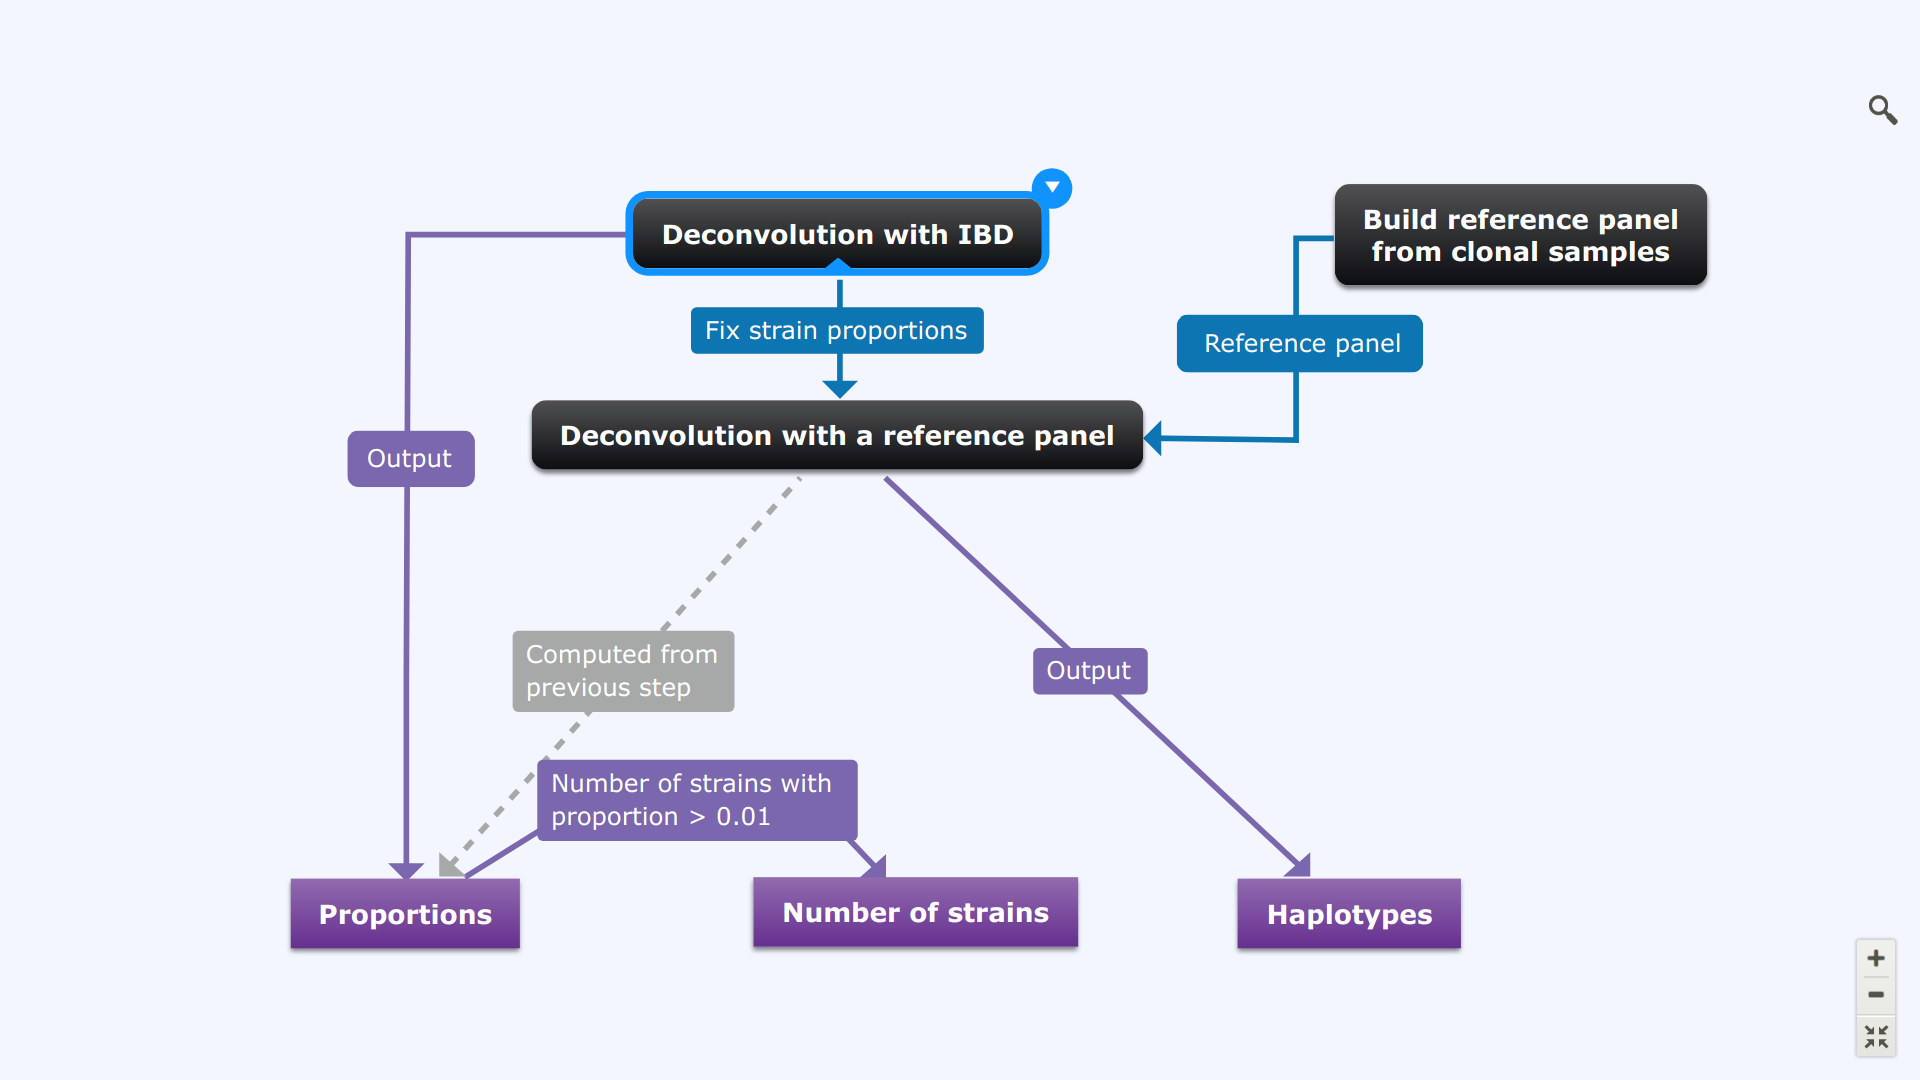
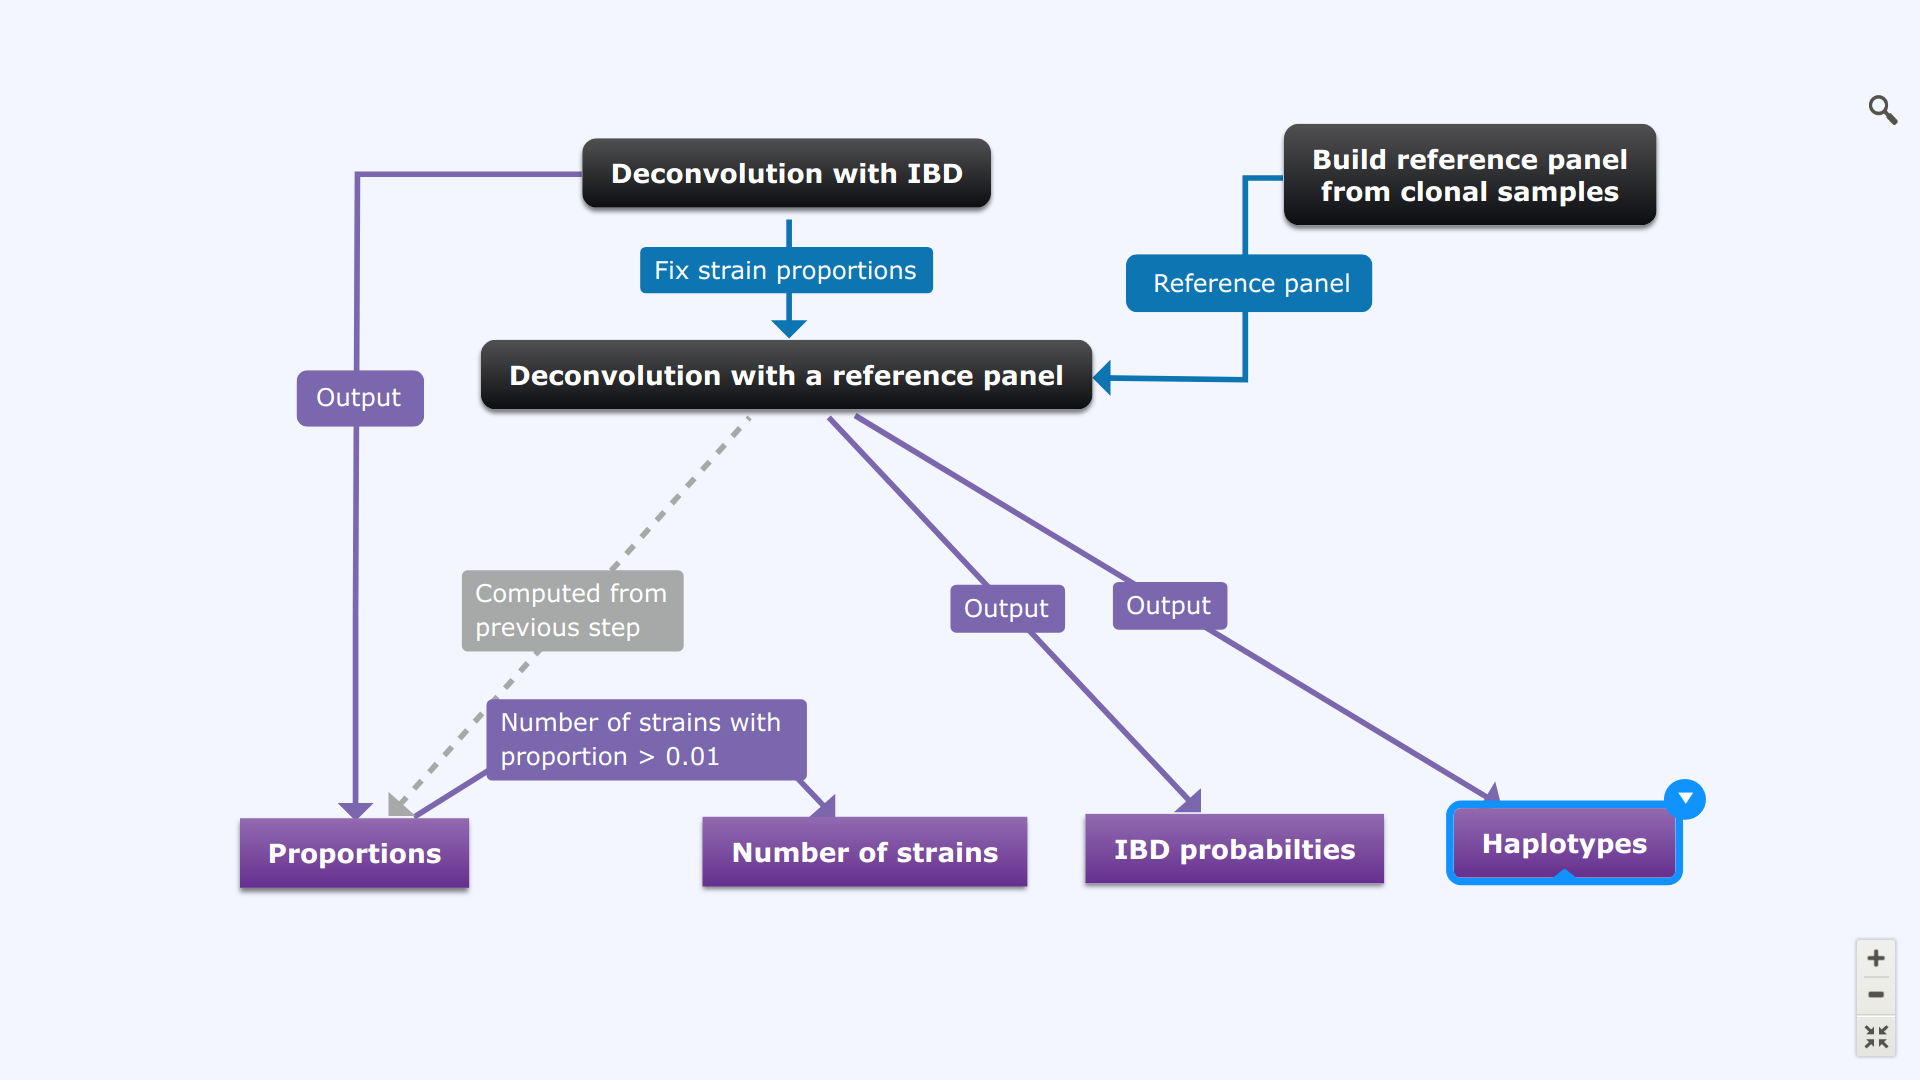
update

diff --git a/main.tex b/main.tex
@@ -42,11 +42,18 @@ The extent to which individuals infected with malaria pathogens of the genus {\i
 \section{INTRODUCTION}
 1. Why mixed infection is relevant to biology and epidemiology.
 
-Humans with P. falciparum malaria often have mixed infections, i.e. they carry a mixture of genetically different parasites of the same species.  Sometimes this is the result of multiple mosquito bites, particularly in geographical locations with high levels of malaria transmission.  On other occasions it is the result of a single mosquito transmitting a genetic mixture of parasites from one person to another.  This is of considerable biological interest because the parasites undergo sexual recombination within the mosquito, i.e. transmission of mixed infections enables new genetic forms to be generated by sexual recombination within the parasite population.
+Humans with {\it Plasmodium} malaria often have mixed infections, i.e. they carry a mixture of genetically different parasites of the same species.  Sometimes this is the result of multiple mosquito bites, particularly in geographical locations with high levels of malaria transmission.  On other occasions it is the result of a single mosquito transmitting a genetic mixture of parasites from one person to another.  This is of considerable biological interest because the parasites undergo sexual recombination within the mosquito, i.e. transmission of mixed infections enables new genetic forms to be generated by sexual recombination within the parasite population.
 
-Genetic analysis of mixed infections is therefore a central problem in P. falciparum population biology.  It is also a practical problem, because mixed infections make it difficult to analyse genome variation within a sample. Current approaches are largely based on genotyping multiple loci (e.g. SNPs) to identify heterozygous genotypes and to measure their allelic proportions, from which it is possible to estimate the complexity of infection (COI) and a coefficient of inbreeding (Fws) within a sample [Manske et al., 2012], [Auburn et al., 2012], [Galinsky et al., 2015].  Such metrics are useful for comparing levels of mixed infection between different locations, and for investigating correlation with transmission intensity and other epidemiological variables, but they do not capture the underlying genetic architecture of an individual mixed infection.
+Genetic analysis of mixed infections is therefore a central problem in {\it Plasmodium} population biology.  It is also a practical problem, because mixed infections make it difficult to analyse genome variation within a sample. Current approaches are largely based on genotyping multiple loci (e.g. SNPs) to identify heterozygous genotypes and to measure their allelic proportions, from which it is possible to estimate the complexity of infection (COI) and a coefficient of inbreeding (Fws) within a sample \citep{Manske2012}, [Auburn et al., 2012]\todo{Jacob: reference}, \citep{Galinsky2015}.  Such metrics are useful for comparing levels of mixed infection between different locations, and for investigating correlation with transmission intensity and other epidemiological variables, but they do not capture the underlying genetic architecture of an individual mixed infection.
 
 2. Prior art – what have others found about rates of mixed infection?
+
+The presence of multiple strains of {\it P. falciparum} makes fine scale analysis of genetic variation challenging, since genetic differences between strains of this haploid organism will appear as heterozygous loci. Such mixed calls confound methods that exploit haplotype data to detect, among other phenomena, the occurrence of natural selection or recent demographic events \citep{Harris2013, Lawson2012, Mathieson2014, Sabeti2002}.
+
+In light of these difficulties, researchers usually focus on clonal infections or resort to heuristic methods for resolving heterozygous genotypes. The former approach discards valuable information regarding genetic diversity and relatedness, whereas the latter tends to create chimeric haplotypes that are not suitable for analysis, unless mixed calls are very sparse.
+
+In comparison to the problem of phasing haplotypes within diploid organisms, deconvolving the strains of a multiple infection differs because of uncertainty in the number of strains present and their relative proportions.  Consequently, existing tools for phasing diploid organisms, such as BEAGLE \citep{Browning2007}, IMPUTE2 \citep{Howie2009} and SHAPEIT \citep{Delaneau2012, Oconnell2014}, are not appropriate. \citet{Galinsky2015}, \citet{Jack2016} \textcolor{black}{and} \citet{Chang2017} have attempted to address the multiple infection problem by inferring the number and proportions of strains from allele frequencies within samples.  However, since they do not infer haplotypes, these approaches have limited applicability.
+
 
 3. Previous work on DEploid – method for deconvolution of mixed infections, using a reference panel.
 Because of the difficulty of analysing samples with mixed infection, most studies of P. falciparum have focused on samples harbouring a single dominant strain.
@@ -55,7 +62,11 @@ Because of the difficulty of analysing samples with mixed infection, most studie
 
 5. Here we develop an enhanced version that models IBD patterns and incorporates into strategy (first estimate IBD and no. strains, then use reference panel version).
 
+Previous studies on IBD, \citep{Henden2016, Wong2017, Schaffner188078}
+
+
 6. Apply to 2 large data sets.
+\citep{Pearson2016, Pf3k2016}
 
 7. Findings relevant to efforts to use genomic data to develop genomic predictors of epidemiological parameters.
 
@@ -122,6 +133,12 @@ Browning, S.~R. and B.~L. Browning (2007)
   whole-genome association studies by use of localised haplotype clustering.
 \newblock {\em Am. J. Hum. Genet.\/}~{\em 81\/}(5), 1084--1097.
 
+\bibitem[\protect\citeauthoryear{Chang}{Chang et~al.}{2017}]{Chang2017}
+\textcolor{black}{Change, H.~H. et al. (2017)
+\newblock THE REAL McCOIL: A method for the concurrent estimation of the complexity of infection and SNP allele frequency for malaria parasites.
+\newblock {\em PLoS Comput. Biol.\/}~{\em 13\/}(1), e1005348.}
+
+
 \bibitem[\protect\citeauthoryear{Neafsey}{Neafsey}{2012}]{Neafsey2012}
 Neafsey, D. {\em et al}.(2012)
 \newblock The malaria parasite {\it Plasmodium vivax} exhibits greater genetic diversity than {\it Plasmodium falciparum}.
@@ -131,6 +148,11 @@ Neafsey, D. {\em et al}.(2012)
 Wegmann, D. {\em et al}.(2011)
 \newblock Recombination rates in admixed individuals identified by ancestry-based inference.
 \newblock {\em Nature Genetics\/}~{\em 43\/}, 847--894.
+
+\bibitem[\protect\citeauthoryear{Galinsky}{Galinsky et~al.}{2015}]{Galinsky2015}
+Galinsky, K. {\em et al}. (2015)
+\newblock COIL: a methodology for evaluating malarial complexity of infection using likelihood from single nucleotide polymorphism data.
+\newblock {\em Malar. J.\/}~{\em14\/}(4), 1--9.
 
 \bibitem[\protect\citeauthoryear{Hinch}{Hinch}{2011}]{Hinch2011}
 Hinch, A.G. {\em et al}. (2011))
@@ -159,6 +181,18 @@ Jiang, H. {\em et al}. (2011)
 \newblock High recombination rates and hotspots in a {\it Plasmodium falciparum} genetic cross.
 \newblock {\em Genome Biology.\/}~{\em 12}, R33.
 
+\bibitem[\protect\citeauthoryear{Manske, Miotto, Campino, Auburn,
+  Almagro-Garcia, Maslen, O'Brien, Djimde, Doumbo, Zongo, Ouedraogo, Michon,
+  Mueller, Siba, Nzila, Borrmann, Kiara, Marsh, Jiang, Su, Amaratunga,
+  Fairhurst, Socheat, Nosten, Imwong, White, Sanders, Anastasi, Alcock, Drury,
+  Oyola, Quail, Turner, Ruano-Rubio, Jyothi, Amenga-Etego, Hubbart, Jeffreys,
+  Rowlands, Sutherland, Roper, Mangano, Modiano, Tan, Ferdig, Amambua-Ngwa,
+  Conway, Takala-Harrison, Plowe, Rayner, Rockett, Clark, Newbold, Berriman,
+  MacInnis, and Kwiatkowski}{Manske et~al.}{2012}]{Manske2012}
+Manske, M. {\em et al}. (2012)
+\newblock Analysis of plasmodium falciparum diversity in natural infections by
+  deep sequencing.
+\newblock {\em Nature\/}~{\em 487\/}(7407), 375--379.
 
 \bibitem[\protect\citeauthoryear{Miles, Iqbal, Vauterin, Pearson, Campino,
   Theron, Gould, Mead, Drury, O{\textquoteright}Brien, Ruano~Rubio, MacInnis,
@@ -202,15 +236,26 @@ The Pf3k Project: pilot data release 5 (2016)
 \newblock {www.malariagen.net/data/pf3k-5} [accessed 1 June 2016]
 
 
+\bibitem[\protect\citeauthoryear{Schaffner}{Schaffner}{2017}]{Schaffner188078}
+Schaffner, Stephen F. {\em et al.} (2017)
+\newblock {hmmIBD: software to infer pairwise identity by descent between haploid genotypes},
+\newblock {\em bioRxiv}, doi:10.1101/188078.
+
 \bibitem[\protect\citeauthoryear{WHO}{WHO}{2016}]{WHO2016}
 WHO. (2016)
 \newblock {World Malaria Report 2015}.
 \newblock {\em World Health Organization\/}.
 
+\bibitem[\protect\citeauthoryear{Wong}{Wong}{2017}]{Wong2017}
+Wong W., {\em et al}. (2017)
+\newblock Genetic relatedness analysis reveals the cotransmission of genetically related {\it Plasmodium falciparum} parasites in Thiès, Senegal.
+\newblock {\em Genome Medicine.\/}~{\em 9}:5. doi:10.1186/s13073-017-0398-0.
+
+
 \bibitem[\protect\citeauthoryear{Zhu, Garcia, McVean}{Zhu et~al.}{2017}]{Zhu2017}
 Zhu, J. S.\, J. A. Garcia\, G. McVean. (2017)
 \newblock {Deconvoluting multiple infections in {\it Plasmodium falciparum} from high throughput sequencing data}.
-\newblock {\em bioRxiv\/}~{\em \/}099499. doi: https://doi.org/10.1101/099499
+\newblock {\em Bioinformatics\/}~{\em \/}btx530. doi: https://doi.org/10.1093/bioinformatics/btx530
 
 \end{thebibliography}
 

diff --git a/mainSupplement.tex b/mainSupplement.tex
@@ -73,6 +73,9 @@
 \input{supplementReset.tex}
 
 \section{Filtering step}
+\subsection{P. f}
+
+\subsection{P. v}
 
 \section{Deconvoltion IBD methods}
 
@@ -244,6 +247,86 @@ dEploid ${common} ${mcmcCommon} -o ${prefix} -ibd
 Against DEploid without using IBD methods.
 
 \subsection{Simulation study}
+
+
+To estimate COI, relative proportions and strain haplotypes we use DEploid [Zhu et al., 2017] on high quality biallelic SNP data (both coding and non-coding variants tagged with PASS at the QUAL column in the VCF file). In order to improve the accuracy of the deconvolution process and improve efficiency, we first split the Pf3k data into groups, based on genetic similarity. We compute genetic distances between two samples following
+
+where l represents an arbitrary locus, L denotes the total number of loci, and  indicates the non-reference within-sample allele frequency for sample s at locus l.  is then given by
+
+where  is the number of read counts supporting the alternative allele in sample s at locus l, and  is the number of read counts supporting the reference allele in sample s at locus l.
+We find that samples from the same geographical region differentiate into clear clusters. We use this initial grouping as the base for defining the reference panels that assist the deconvolution procedure. Our definition of geographical groups is
+Africa
+Malawi, Congo.
+Ghana (Kassena).
+Nigeria, Senegal, Mali.
+The Gambia, Guinea, Ghana (Kintampo).
+Asia
+Cambodia (Pursat), Cambodia (Pailin), Thailand (Sisakhet).
+Vietnam, Laos, Cambodia (Ratanakiri), Cambodia (Preah Vihear).
+Bangladesh, Myanmar, Thailand (Mae Sot), Thailand (Ranong).
+
+
+\section{Deconvolution example with sample PD0577-C}
+
+The following example shows a specific {\textmd DEploid} command to deconvolute the mixed sample {\textmd PD0577-C}:
+\linespread{1}
+\begin{lstlisting}
+dEploid -ref PD0577-C_ref.txt \
+    -alt PD0577-C_alt.txt \
+    -plaf asia-1_PLAF.txt \
+    -exclude asia-1_exclude.txt \
+    -panel asia-1_panel.txt \
+    -o PD0577-C.deconv \
+    -seed 5 \
+    -nSample 250 \
+    -rate 8 \
+    -burn 0.67 \
+    -k 3 \
+    -exportPostProb
+\end{lstlisting}
+\linespread{1.5}
+where ``{\tt -ref PD0577-C\_ref.txt}'' and ``{\tt -alt PD0577-C\_alt.txt}'' define the input text files \footnote{The Pf3k data was deconvoluted using DEploid version v0.1-beta. Recent versions can take VCF files as input as well.} that record the reference and alternative read counts respectively; ``{\tt -plaf asia-1\_PLAF.txt}'' contains the population allele frequencies calculated from total read counts. Note that we use option ``{\tt -exclude asia-1\_exclude.txt}'' to skip deconvoluting monomophic sites; ``{\tt -panel asia-1\_panel.txt}'' specifies a text file including haplotypes of samples listed in Table~\ref{tab:panelSamples}; options ``{\tt -nSample}'', ``{\tt -rate}'' and ``{\tt -burn}'' specify the total number of MCMC samples to take, the sampling rate and the burning rate of the MCMC chain respectively. For detailed documentation, please see \url{http://deploid.readthedocs.io/en/latest/input.html}.
+
+\linespread{1}
+\begin{lstlisting}
+dEploid -ref PD0577-C_ref.txt \
+    -alt PD0577-C_alt.txt \
+    -plaf asia-1_PLAF.txt \
+    -exclude asia-1_exclude.txt \
+    -panel asia-1_panel.txt \
+    -o PD0577-C.deconv \
+    -painting PD0577-C.deconv.hap
+\end{lstlisting}
+\linespread{1.5}
+
+
+
+We use a utility {\tt R} script to plot and interpret the output produced by DEploid. The following command is used to generate Figures~\ref{fig:PD0577} (a) -- (e).
+\linespread{1}
+\begin{lstlisting}
+R --slave "--args
+    -ref PD0577-C_ref.txt
+    -alt PD0577-C_alt.txt
+    -plaf asia-1_PLAF.txt
+    -exclude asia-1_exclude.txt
+    -o PD0577-C.deconv
+    -dEprefix PD0577-C.deconv" < ~/DEploid/utilities/interpretDEploid.r
+\end{lstlisting}
+\linespread{1.5}
+where flags ``{\tt -ref}'', ``{\tt -alt}'', ``{\tt -plaf}'' and ``{\tt -exclude}'' are used in the same manner as in the previous example.
+
+
+\begin{figure}[ht]
+\centering
+\caption{Sample {\textmd PD0577-C} deconvolution with Reference Panel Asia-1. (a) Diagnostic panels from the \texttt{DEploid} output. The top three panels are used as data exploration of sample {\textmd PD0577-C}. From left to right, it shows: 1. Alternative read counts vs reference read counts. 2. Histogram of the allele frequencies within sample.
+3. Allele frequencies at the population level (PLAF) vs allele frequencies within the sample (WSAF): red dots show observed WSAF, which is calculated by read counts; blue does show the expected WSAF. The next three plots from left to right show: 1. MCMC samples for the strain proportions, with the fraction of each color indicating the proportion of a different strain at each MCMC sample. The three colored blocks suggest that there are three strains within sample {\textmd PD0577-C}, with proportions approximately 1/4, 1/4 and 1/2.
+2. Expected WSAF vs observed WSAF. We use the correlation between the observed and expected WSAF as a sanity check for our model. A low correlation suggests poor fitting.
+3. Log likelihood of the MCMC chain. This figure is used to indicate whether the MCMC has converged. The colored dots mark the likelihoods of the model when specific MCMC steps are used: updating the strain porportions, painting a single haplotype and painting a pair of haplotypes are marked in green red and blue respectively. (b) Expected WSAF (blue) and observed WSAF (red) across the genome. This figure highlights the genome diversity within the mixed sample across the genome. (c) (d) and (e) show the posterior painting probabilities for the deconvoluted strains when using the Reference Panel Asia-1. Each panel represents the posterior probability of a chromosome. Chromosomes 1 -- 14 are ordered from left to right, then top to bottom.
+}\label{fig:PD0577}
+\end{figure}
+
+
+
 
 \newpage
 \input{supplementReset.tex}
